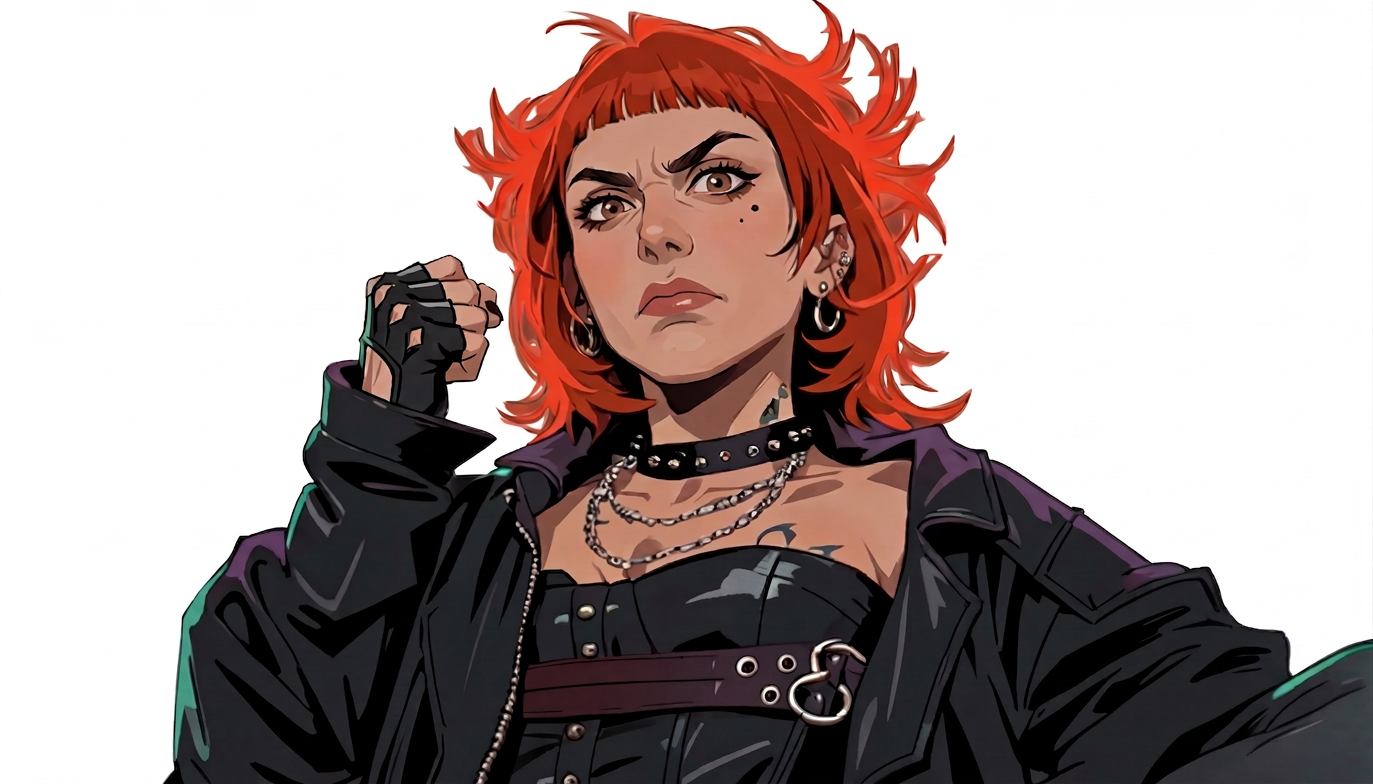
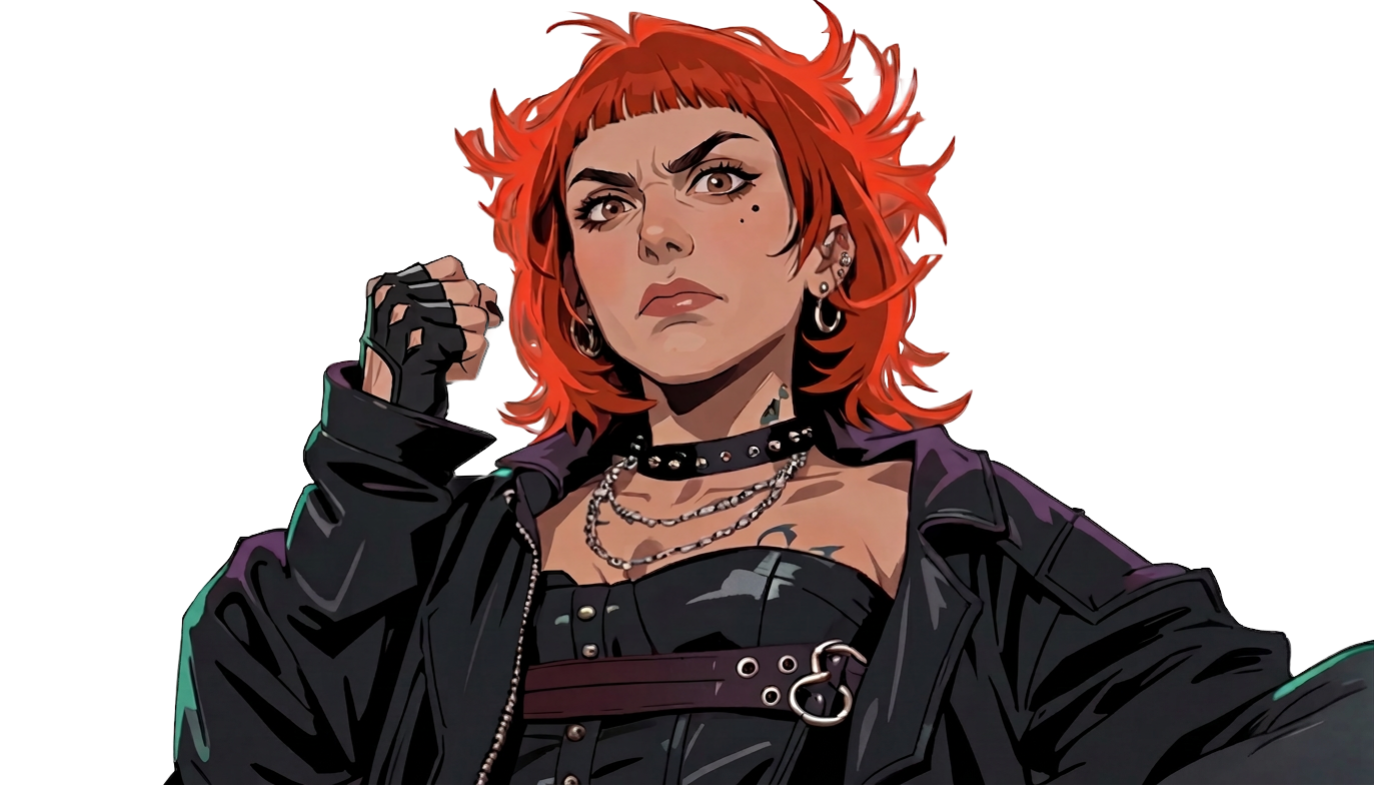
Refresh character and scene assets
Updated multiple character PNGs across Cam, Gladys, JOJO, Jackson, Maite, Rusher king, Shanina cute, and Shanina orange, plus added new Gladys and scene assets. Also removed one obsolete Gladys image and added an AGENTS guide file for repo handling.

diff --git a/AGENTS.md b/AGENTS.md
@@ -1,0 +1,22 @@
+# AGENTS
+
+## Project shape (verified)
+- This repository is a Ren'Py game project root (`game/` style contents live at repo root).
+- Main story entrypoint is `label start` in `script.rpy`.
+- Core engine/template files are `script.rpy`, `screens.rpy`, `gui.rpy`, and `options.rpy`.
+- There are no repo-local build/test/lint/task configs (no `README*`, CI workflows, package manifests, or task runner files were found).
+
+## High-risk files to avoid editing by default
+- Do not edit compiled/generated files: `*.rpyc`, `cache/*.rpyb`, `cache/shaders.txt`, `tl/None/common.rpymc`.
+- Do not edit runtime state files unless explicitly requested: everything under `saves/` (including `persistent`).
+- Prefer editing source `.rpy` files and raw assets only.
+
+## Asset and script conventions used here
+- Script uses short Ren'Py names directly (examples: `play music sleep`, `play sound hard_knock`, `show cam`, `scene bg bedroom`).
+- Asset filenames and directories include spaces and mixed case (for example under `images/` and `audio/`), so match names exactly when referencing or renaming files.
+- `libs/libs.txt` is present; anything in `libs/` is loaded before normal `game` scripts by Ren'Py.
+
+## Practical workflow for agents
+- Before changing story/UI, read the relevant block in `script.rpy` or `screens.rpy` and keep indentation/style exactly (Ren'Py syntax is indentation-sensitive).
+- Keep UI text and existing comments consistent with current language usage (Spanish in template files, Spanish narrative in `script.rpy`).
+- After edits, at minimum run `git status --short` to confirm only intended source/assets changed and no generated/save files were touched.
